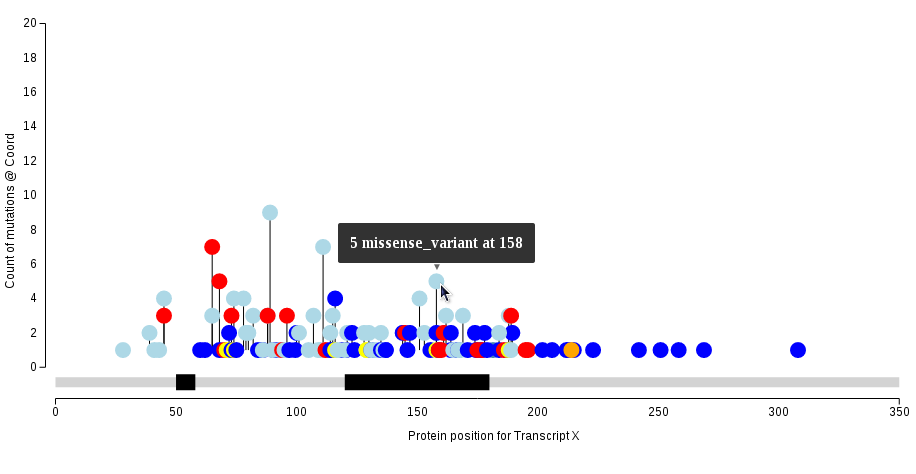
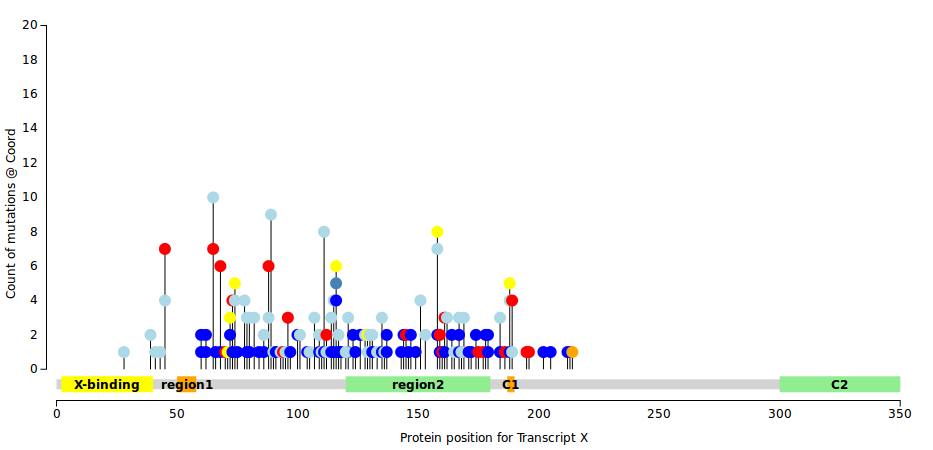
stacked needles

diff --git a/index.html b/index.html
@@ -15,6 +15,11 @@ text {
     fill: lightgrey;
 }
 
+.regionName {
+      fill: black;
+      font-weight: bold;
+}
+
 .x-axis path, .x-axis line, .y-axis path, .y-axis line {
       fill: none;
 }
@@ -137,7 +142,7 @@ MutNeedles.prototype.drawRegions = function(svg, regionData, x, y) {
     }
 
 
-    d3.select(".mutneedles").selectAll()
+    var regionsBG = d3.select(".mutneedles").selectAll()
         .data([1]).enter()
         .append("rect")
           .attr("x", x(0) )
@@ -146,30 +151,46 @@ MutNeedles.prototype.drawRegions = function(svg, regionData, x, y) {
           .attr("height", 10)
           .attr("class", "regionsBG");
 
-
     d3.json(regionData, function(error, regions) {
         if (error) {return console.debug(error)};
 
         regionList = [];
+        i = 0;
         for (key in regions) {
+            i++;
             regionList.push( {
                 'name': key, 
                 'start': regionStart(regions[key]),
-                'end': regionEnd(regions[key])
+                'end': regionEnd(regions[key]),
+                'color': ["yellow", "orange", "lightgreen"][i%3]
             });
         }
 
         console.log(regionList);
 
-        var Regions = d3.select(".mutneedles").selectAll()
+        var regions = d3.select(".mutneedles").selectAll()
             .data(regionList)
           .enter()
-          .append("rect")
+          .append("g")
+          .attr("class", "region");
+
+        regions.append("rect")
               .attr("x", function(r) { return x(r.start) })
               .attr("y", y(0) + 7)
               .attr("width", function(r) { return x(r.end)-x(r.start) } )
               .attr("height", 16)
-              .attr("class", "region");
+              .style("fill", function(data) {return data.color});
+         
+        regions.append("text")
+           .attr("class", "regionName")
+           .attr("text-anchor", "middle")
+           .attr("x", function(r) { return  x(r.start)+(x(r.end)-x(r.start))/2 })
+           .attr("y", y(0) + 16)
+           .attr("dy", "0.35em")
+           .style("font-size", "12px") 
+           .style("text-decoration", "bold")
+           .text(function(data) { return data.name } );
+
 
     });
 
@@ -230,7 +251,7 @@ MutNeedles.prototype.drawNeedleHeads = function(svg, mutationData, x, y) {
        if (coord.indexOf("-") > -1) {
             coords = coord.split("-");
             // place neede at middle of affected region
-            coord = parseInt(coords[0]) + parseInt(coords[1]) / 2;
+            coord = Math.floor((parseInt(coords[0]) + parseInt(coords[1])) / 2);
         } else {
             coord = parseInt(coord);
         }
@@ -240,15 +261,32 @@ MutNeedles.prototype.drawNeedleHeads = function(svg, mutationData, x, y) {
     getColor = this.needleHeadColor;
     colors = this.colorMap;
     tip = this.tip;
+    
+    // stack needles at same pos
+    needlePoint = {};
+    stackNeedle = function(pos,value) {
+      stickHeight = 0;
+      if (pos in needlePoint) {
+         stickHeight = needlePoint[pos];
+         needlePoint[pos] = stickHeight + value;
+      } else {
+         needlePoint[pos] = value;
+      }
+      return stickHeight;
+    }
+    
 
     d3.tsv(mutationData, function(d) {
+        coordString = d.coord;
         numericCoord = formatCoord(d.coord);
+        console.log(coordString + " " + numericCoord);
         if (numericCoord > 0) {
             return {
                 category: d.category,
-                coordString: d.coord,
+                coordString: coordString,
                 coord: numericCoord,
-                value: +d.value
+                value: +d.value,
+                stickHeight: stackNeedle(numericCoord, +d.value)
             }
         } else {
             console.debug("discarding " + d.coord)
@@ -258,8 +296,8 @@ MutNeedles.prototype.drawNeedleHeads = function(svg, mutationData, x, y) {
         var needles = d3.select(".mutneedles").selectAll()
             .data(muts).enter()
             .append("line")
-               .attr("y1", function(data) { return y(data['value']) })
-               .attr("y2", function(data) { return y(1) })
+               .attr("y1", function(data) { return y(data.stickHeight+data.value) })
+               .attr("y2", function(data) { return y(data.stickHeight) })
                .attr("x1", function(data) { return x(data['coord']) })
                .attr("x2", function(data) { return x(data['coord']) })
                .attr("class", "needle-line");
@@ -268,9 +306,9 @@ MutNeedles.prototype.drawNeedleHeads = function(svg, mutationData, x, y) {
         var needleHeads = d3.select(".mutneedles").selectAll()
             .data(muts)
           .enter().append("circle")
-            .attr("cy", function(data) { return y(data['value']) } )
+            .attr("cy", function(data) { return y(data.stickHeight+data.value) } )
             .attr("cx", function(data, index) { return x(data['coord']) } )
-            .attr("r", function(data) { return 8; } )
+            .attr("r", function(data) { return 6; } )
             .style("fill", function(data) {
                     return getColor(data['category'], colors);
                 })
@@ -286,16 +324,4 @@ categs = {"missense_variant": "lightblue", "frameshift_variant": "blue", "stop_g
 p = new MutNeedles(350, "body", "regions.json", "muts.tsv", categs);
 
 
-
-
-
-/*
-d3.json("muts.json", function(error, root) {
-  var node = svg.selectAll(".node")
-      .data(bubble.nodes(classes(root))
-      .filter(function(d) { return !d.children; }))
-    .enter().append("g")
-      .attr("class", "node")
-      .attr("transform", function(d) { return "translate(" + d.x + "," + d.y + ")"; });
-})*/
 </script>

diff --git a/README.md b/README.md
@@ -1,4 +1,4 @@
-D3 Needleplot (aka Lollipop) for mutation data
+D3 Needleplot (aka Stem-Plot or Lollipop-Plot) for mutation data
 ================================================
 
 !! Under development - will be added to BioJS when complete
